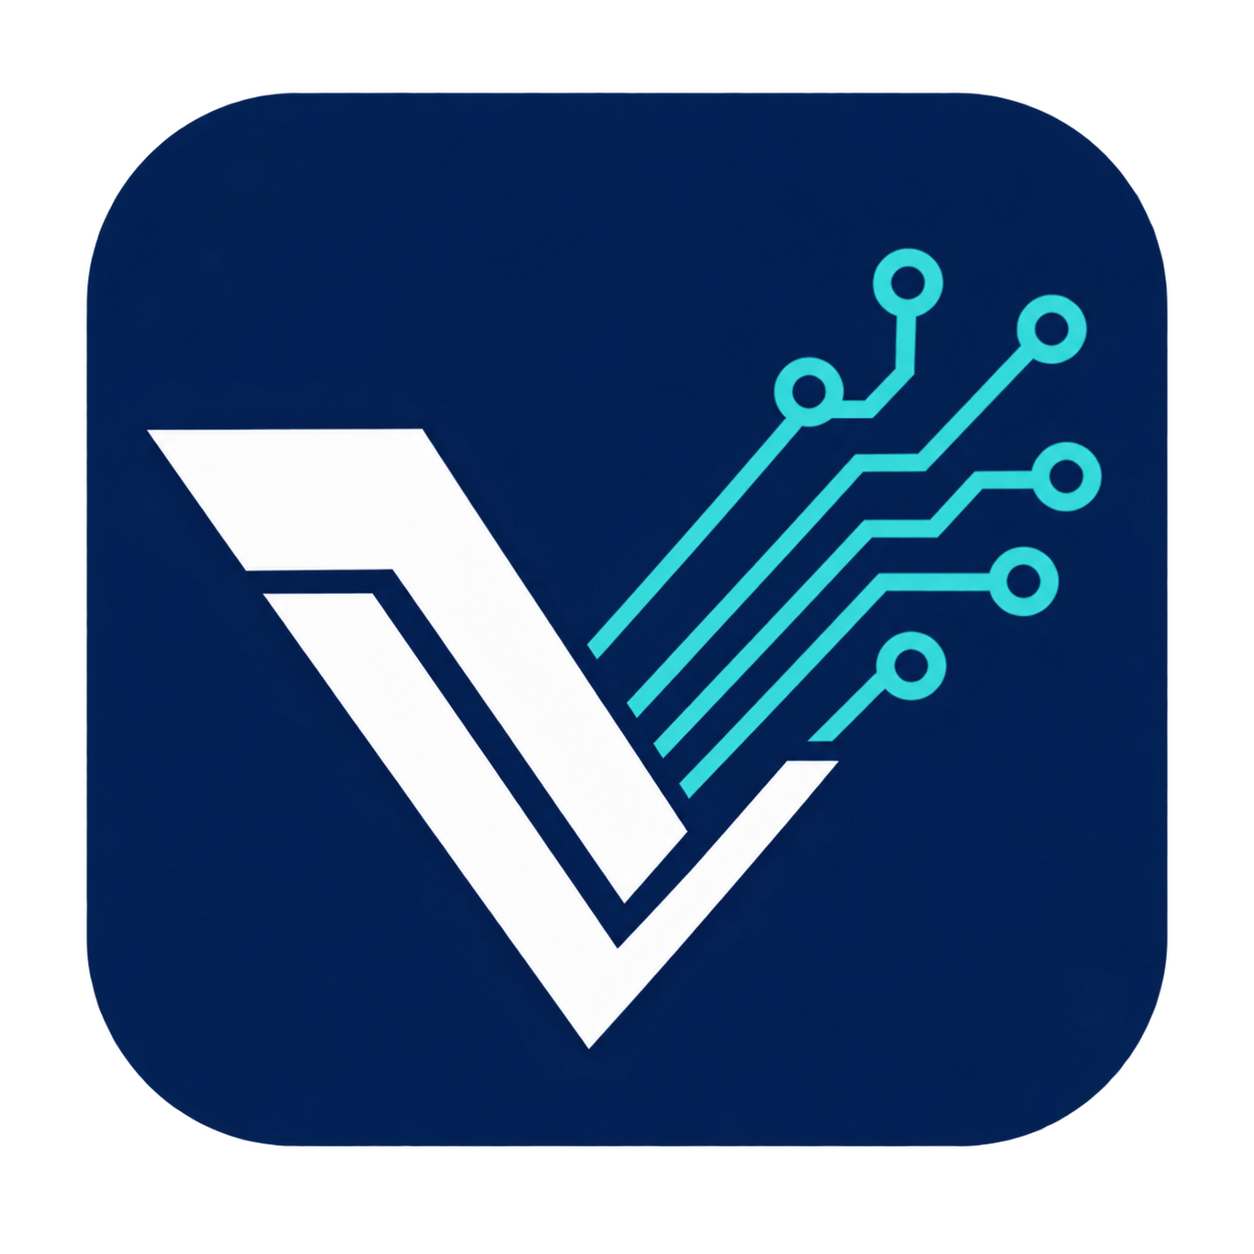
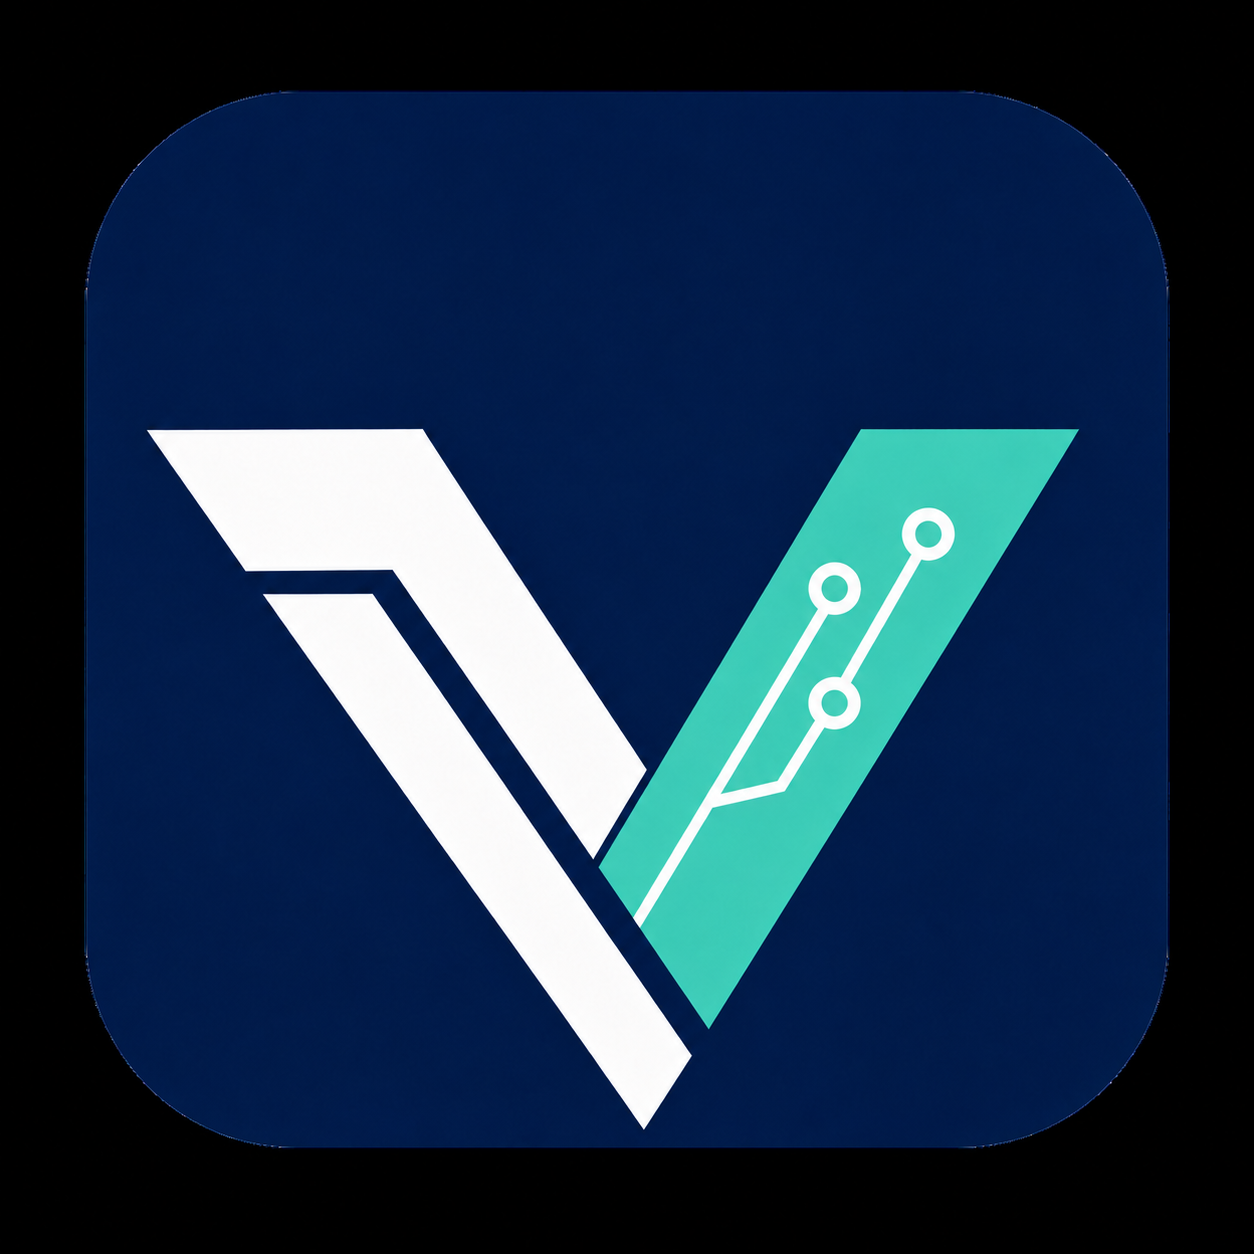
Apply approved Itqan Valley visual identity

diff --git a/app/globals.css b/app/globals.css
@@ -1,6 +1,6 @@
 @font-face{font-family:"SaudiWeb";src:url("/fonts/SaudiWeb-Regular.woff2") format("woff2");font-weight:400;font-display:swap}
 @font-face{font-family:"SaudiWeb";src:url("/fonts/SaudiWeb-Bold.woff2") format("woff2");font-weight:700 900;font-display:swap}
-:root{--bg:#eaeff3;--surface:#fff;--surface2:#f2f7f9;--alt:#e6edf1;--ink:#0a1f33;--mut:#5c7080;--line:#e1e9ee;--navy:#071a2d;--navy2:#0c2d49;--cyan:#0e93ad;--cyanS:#59d7ea;--blue:#1558c0;--price:#124fa6;--onN:#eaf4f8;--onNm:#9bb6c7;--ring:rgba(89,215,234,.6)}
+:root{--bg:#F2F8F8;--surface:#FFFFFF;--surface2:#F2F8F8;--alt:#FFFFFF;--ink:#002142;--mut:#006D81;--line:rgba(0,109,129,.18);--navy:#002142;--navy2:#006D81;--cyan:#006D81;--cyanS:#0EADB0;--blue:#006D81;--price:#006D81;--onN:#FFFFFF;--onNm:rgba(255,255,255,.72);--ring:#0EADB0}
 *{box-sizing:border-box}
 html{scroll-behavior:smooth}
 body{margin:0;background:var(--bg);color:var(--ink);direction:rtl;line-height:1.6;font-family:"Thmanyah Sans","SaudiWeb",Arial,sans-serif;-webkit-font-smoothing:antialiased;font-feature-settings:"ss01" 1}
@@ -14,32 +14,32 @@ img{display:block;max-width:100%}svg{flex:none}
 .btn{display:inline-flex;align-items:center;gap:9px;border-radius:12px;padding:13px 22px;font-weight:800;font-size:15px;cursor:pointer;transition:transform .16s}
 .btn:hover{transform:translateY(-2px)}
 .btn svg{width:18px;height:18px}
-.btn-primary{background:var(--cyanS);color:#062033}.btn-ghost{background:transparent;border:1.5px solid #ffffff40;color:#fff}.btn-wa{background:#25d366;color:#04241a}
+.btn-primary{background:var(--cyanS);color:var(--navy)}.btn-ghost{background:transparent;border:1.5px solid rgba(255,255,255,.25);color:var(--surface)}.btn-wa{background:var(--cyanS);color:var(--navy)}
 /* brand */
 .brand-lockup{display:flex;align-items:center;gap:11px}
 .brand-lockup img{width:42px;height:42px;flex:none}
 .brand-lockup.compact img{width:38px;height:38px}
 .brand-copy{display:flex;flex-direction:column;line-height:1.12}
-.brand-copy b{font-size:18px;font-weight:800;color:#fff}
+.brand-copy b{font-size:18px;font-weight:800;color:var(--surface)}
 .brand-lockup.compact .brand-copy b{font-size:16px}
 .brand-copy strong{font-size:9px;font-weight:700;color:var(--onNm);letter-spacing:.16em}
 .brand-copy small{display:none}
 /* header */
-.site-header{position:sticky;top:0;z-index:50;background:#071a2de8;-webkit-backdrop-filter:blur(10px);backdrop-filter:blur(10px);border-bottom:1px solid #ffffff14}
+.site-header{position:sticky;top:0;z-index:50;background:rgba(0,33,66,.94);-webkit-backdrop-filter:blur(10px);backdrop-filter:blur(10px);border-bottom:1px solid rgba(255,255,255,.08)}
 .site-header .wrap{display:flex;align-items:center;justify-content:space-between;gap:16px;height:66px}
 .brand-button{display:inline-flex}
 .site-nav{display:flex;gap:22px}
 .site-nav a{color:var(--onNm);font-size:14px;font-weight:700}
-.site-nav a:hover{color:#fff}
+.site-nav a:hover{color:var(--surface)}
 .header-actions{display:flex;align-items:center;gap:10px}
-.language-toggle{min-width:42px;border:1px solid #ffffff2e;background:#ffffff12;color:#fff;border-radius:999px;padding:9px 13px;font-family:Arial,sans-serif;font-size:12px;font-weight:800}
-.language-toggle:hover{background:#ffffff20}
-.header-cta{background:var(--cyanS);color:#062033;border-radius:10px;padding:9px 15px;font-weight:800;font-size:13.5px}
+.language-toggle{min-width:42px;border:1px solid rgba(255,255,255,.18);background:rgba(255,255,255,.07);color:var(--surface);border-radius:999px;padding:9px 13px;font-family:Arial,sans-serif;font-size:12px;font-weight:800}
+.language-toggle:hover{background:rgba(255,255,255,.13)}
+.header-cta{background:var(--cyanS);color:var(--navy);border-radius:10px;padding:9px 15px;font-weight:800;font-size:13.5px}
 @media(max-width:820px){.site-nav{display:none}}
 /* hero */
-.hero{background:radial-gradient(120% 130% at 82% 0%,#0f3350 0%,#071a2d 58%,#050f1a 100%);color:var(--onN)}
+.hero{background:var(--navy);color:var(--onN)}
 .hero .wrap{padding-block:clamp(56px,9vw,112px);text-align:center}
-.hero h1{font-size:clamp(34px,5vw,60px);letter-spacing:-.02em;color:#fff;white-space:nowrap}
+.hero h1{font-size:clamp(34px,5vw,60px);letter-spacing:-.02em;color:var(--surface);white-space:nowrap}
 .hero h1 em{font-style:normal;color:var(--cyanS)}
 .hero .lead{margin:22px auto 0;max-width:58ch;font-size:clamp(16px,1.8vw,20px);color:var(--onNm);line-height:1.7}
 .hero-cta{display:flex;flex-wrap:wrap;gap:12px;margin-top:32px;justify-content:center}
@@ -47,7 +47,7 @@ img{display:block;max-width:100%}svg{flex:none}
 /* sections */
 .block{padding:clamp(52px,8vw,100px) 0}
 .block.light{background:var(--bg)}.block.alt{background:var(--alt)}
-.block.navy{background:linear-gradient(150deg,#071a2d,#0c2d49);color:#fff}
+.block.navy{background:var(--navy);color:var(--surface)}
 .sec-top{margin-bottom:clamp(26px,4vw,44px)}
 .sec-top h2{font-size:clamp(26px,3.6vw,42px);letter-spacing:-.01em;margin-top:10px}
 .sec-top h2 em,.proof-h em,.contact-h em{font-style:normal;color:var(--cyan)}
@@ -57,35 +57,35 @@ img{display:block;max-width:100%}svg{flex:none}
 /* solutions */
 .sol-grid{display:grid;grid-template-columns:repeat(auto-fit,minmax(240px,1fr));gap:16px}
 .sol{background:var(--surface);border:1px solid var(--line);border-radius:18px;overflow:hidden;display:flex;flex-direction:column;transition:transform .18s,box-shadow .18s}
-.sol:hover{transform:translateY(-4px);box-shadow:0 20px 45px #0a1f3316}
+.sol:hover{transform:translateY(-4px);box-shadow:0 20px 45px rgba(0,33,66,.09)}
 .sol .ph{position:relative;aspect-ratio:16/10;overflow:hidden}
 .sol .ph img{width:100%;height:100%;object-fit:cover}
-.sol .ph b{position:absolute;top:12px;inset-inline-start:12px;background:#071a2dcc;color:var(--cyanS);font-size:11px;font-weight:800;padding:4px 10px;border-radius:999px}
+.sol .ph b{position:absolute;top:12px;inset-inline-start:12px;background:rgba(0,33,66,.9);color:var(--cyanS);font-size:11px;font-weight:800;padding:4px 10px;border-radius:999px}
 .sol .body{padding:20px}
 .sol .body small{font-size:12px;font-weight:800;color:var(--cyan)}
 .sol .body h3{font-size:21px;color:var(--ink);margin:6px 0 9px}
 .sol .body p{font-size:13.5px;color:var(--mut);line-height:1.7}
 /* services */
-.svc-switch{display:inline-flex;background:#ffffff12;border:1px solid #ffffff22;border-radius:13px;padding:4px;gap:4px;margin-bottom:22px}
-.svc-switch button{color:#c7d6e0;font-weight:800;font-size:14.5px;padding:10px 20px;border-radius:9px}
-.svc-switch button.on{background:var(--cyanS);color:#062033}
+.svc-switch{display:inline-flex;background:rgba(255,255,255,.07);border:1px solid rgba(255,255,255,.13);border-radius:13px;padding:4px;gap:4px;margin-bottom:22px}
+.svc-switch button{color:rgba(255,255,255,.78);font-weight:800;font-size:14.5px;padding:10px 20px;border-radius:9px}
+.svc-switch button.on{background:var(--cyanS);color:var(--navy)}
 .cards{display:flex;flex-wrap:wrap;gap:14px}
-.pc{position:relative;background:#0e2c48;border:1px solid #ffffff1a;border-radius:16px;padding:20px;display:flex;flex-direction:column;gap:9px;flex:1 1 calc(33.333% - 10px);min-width:0}
+.pc{position:relative;background:var(--navy2);border:1px solid rgba(255,255,255,.1);border-radius:16px;padding:20px;display:flex;flex-direction:column;gap:9px;flex:1 1 calc(33.333% - 10px);min-width:0}
 @media(max-width:900px){.pc{flex:1 1 calc(50% - 7px)}}
 @media(max-width:560px){.pc{flex:1 1 100%}}
-.pc-feat{background:linear-gradient(150deg,#123a5c,#0b2038);border-color:#59d7ea66}
-.pc-best{position:absolute;top:15px;inset-inline-start:15px;background:#59d7ea;color:#062033;font-size:10.5px;font-weight:800;padding:3px 10px;border-radius:999px}
+.pc-feat{background:linear-gradient(135deg,#006D81,#0EADB0);border-color:var(--cyanS)}
+.pc-best{position:absolute;top:15px;inset-inline-start:15px;background:var(--surface);color:var(--navy);font-size:10.5px;font-weight:800;padding:3px 10px;border-radius:999px}
 .pc-cat{font-size:11.5px;font-weight:800;color:var(--cyanS)}
-.pc h3{font-size:19px;color:#fff}
-.pc>p{font-size:13px;color:#a9bfcd;line-height:1.6;flex:1}
-.pc-foot{display:flex;align-items:baseline;justify-content:space-between;gap:8px;margin-top:4px;padding-top:14px;border-top:1px solid #ffffff18}
+.pc h3{font-size:19px;color:var(--surface)}
+.pc>p{font-size:13px;color:rgba(255,255,255,.72);line-height:1.6;flex:1}
+.pc-foot{display:flex;align-items:baseline;justify-content:space-between;gap:8px;margin-top:4px;padding-top:14px;border-top:1px solid rgba(255,255,255,.09)}
 .pc-price{font-size:22px;font-weight:800;color:var(--cyanS);font-variant-numeric:tabular-nums}
 .pc-go{font-size:12.5px;font-weight:800;color:var(--cyanS);white-space:nowrap}
-.guar{margin-top:18px;background:#ffffff0d;border:1px solid #ffffff1f;border-radius:16px;padding:18px 22px;display:flex;flex-wrap:wrap;gap:12px 22px;align-items:center}
-.guar .gt{display:flex;align-items:center;gap:10px;font-weight:800;font-size:15px;color:#fff}
+.guar{margin-top:18px;background:rgba(255,255,255,.05);border:1px solid rgba(255,255,255,.12);border-radius:16px;padding:18px 22px;display:flex;flex-wrap:wrap;gap:12px 22px;align-items:center}
+.guar .gt{display:flex;align-items:center;gap:10px;font-weight:800;font-size:15px;color:var(--surface)}
 .guar .gt svg{width:20px;height:20px;color:var(--cyanS)}
 .guar .gc{display:flex;flex-wrap:wrap;gap:8px}
-.guar .gc span{border:1.5px solid #ffffff30;border-radius:999px;padding:5px 12px;font-size:12px;font-weight:700;color:#dbe8f0}
+.guar .gc span{border:1.5px solid rgba(255,255,255,.18);border-radius:999px;padding:5px 12px;font-size:12px;font-weight:700;color:rgba(255,255,255,.86)}
 /* proof */
 .proof-grid{display:grid;grid-template-columns:1.05fr .95fr;gap:clamp(24px,4vw,54px);align-items:center}
 .proof-h{font-size:clamp(28px,3.8vw,46px);letter-spacing:-.02em;margin-top:10px}
@@ -95,11 +95,11 @@ img{display:block;max-width:100%}svg{flex:none}
 .facts strong{display:block;font-size:clamp(30px,3.4vw,40px);font-weight:800;color:var(--cyan);font-variant-numeric:tabular-nums;letter-spacing:-.02em;line-height:1}
 .facts span{font-size:13px;color:var(--mut);margin-top:7px;display:block}
 .dash{position:relative}
-.dash .frame{background:var(--surface);border:1px solid var(--line);border-radius:16px;overflow:hidden;box-shadow:0 24px 60px #0a1f331f}
+.dash .frame{background:var(--surface);border:1px solid var(--line);border-radius:16px;overflow:hidden;box-shadow:0 24px 60px rgba(0,33,66,.12)}
 .dash .frame .bar{height:34px;background:var(--surface2);border-bottom:1px solid var(--line);display:flex;align-items:center;gap:6px;padding:0 14px}
 .dash .frame .bar i{width:10px;height:10px;border-radius:50%;background:var(--line);display:block}
 .dash .frame img{width:100%}
-.dash .badge{position:absolute;inset-inline-start:-14px;bottom:-16px;width:112px;height:112px;border-radius:50%;background:var(--cyanS);color:#062033;display:grid;place-items:center;text-align:center;box-shadow:0 18px 40px #0006}
+.dash .badge{position:absolute;inset-inline-start:-14px;bottom:-16px;width:112px;height:112px;border-radius:50%;background:var(--cyanS);color:var(--navy);display:grid;place-items:center;text-align:center;box-shadow:0 18px 40px rgba(0,33,66,.38)}
 .dash .badge b{font-size:29px;font-weight:800;line-height:1}
 .dash .badge span{font-size:10px;font-weight:700;margin-top:4px;padding:0 8px}
 @media(max-width:760px){.proof-grid{grid-template-columns:1fr}.dash{margin-top:22px}}
@@ -113,17 +113,17 @@ img{display:block;max-width:100%}svg{flex:none}
 .step p{font-size:13px;color:var(--mut);line-height:1.6}
 /* contact */
 .contact{display:grid;grid-template-columns:1.1fr .9fr;gap:clamp(24px,4vw,50px);align-items:center}
-.contact-h{font-size:clamp(28px,3.8vw,48px);letter-spacing:-.02em;margin-top:10px;color:#fff}
+.contact-h{font-size:clamp(28px,3.8vw,48px);letter-spacing:-.02em;margin-top:10px;color:var(--surface)}
 .contact-text{color:var(--onNm);margin-top:14px;max-width:52ch;line-height:1.7}
 .contact-cta{display:flex;flex-wrap:wrap;gap:12px;margin-top:26px}
-.contact-card{background:#ffffff0d;border:1px solid #ffffff1f;border-radius:20px;padding:26px}
+.contact-card{background:rgba(255,255,255,.05);border:1px solid rgba(255,255,255,.12);border-radius:20px;padding:26px}
 .contact-card .brand-lockup{margin-bottom:14px}
 .contact-card>p{color:var(--onNm);font-size:14px;line-height:1.8;margin-top:4px}
 .pts{display:flex;flex-wrap:wrap;gap:8px;margin-top:16px}
-.pts span{border:1.5px solid #ffffff30;border-radius:999px;padding:6px 13px;font-size:12.5px;font-weight:700}
+.pts span{border:1.5px solid rgba(255,255,255,.18);border-radius:999px;padding:6px 13px;font-size:12.5px;font-weight:700}
 @media(max-width:760px){.contact{grid-template-columns:1fr}}
 /* footer */
-.foot{background:var(--navy);color:var(--onNm);padding:26px 0;border-top:1px solid #ffffff14}
+.foot{background:var(--navy);color:var(--onNm);padding:26px 0;border-top:1px solid rgba(255,255,255,.08)}
 .foot .wrap{display:flex;flex-wrap:wrap;gap:10px;justify-content:space-between;align-items:center;font-size:13px}
 @media (prefers-reduced-motion:reduce){*{transition:none!important;scroll-behavior:auto!important}}
 :focus-visible{outline:2px solid var(--ring);outline-offset:3px}
